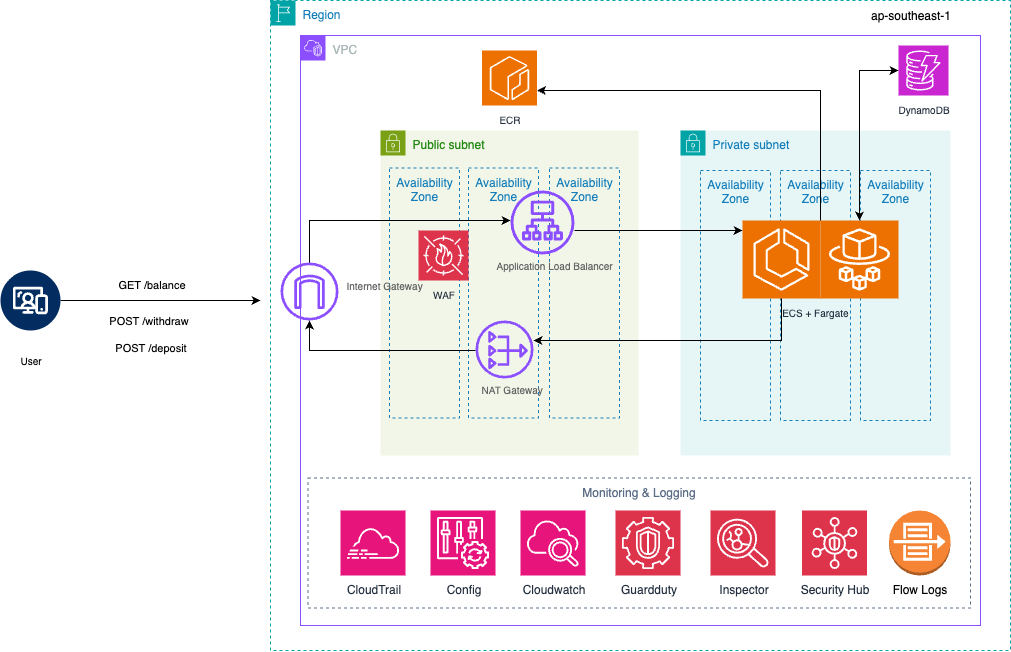
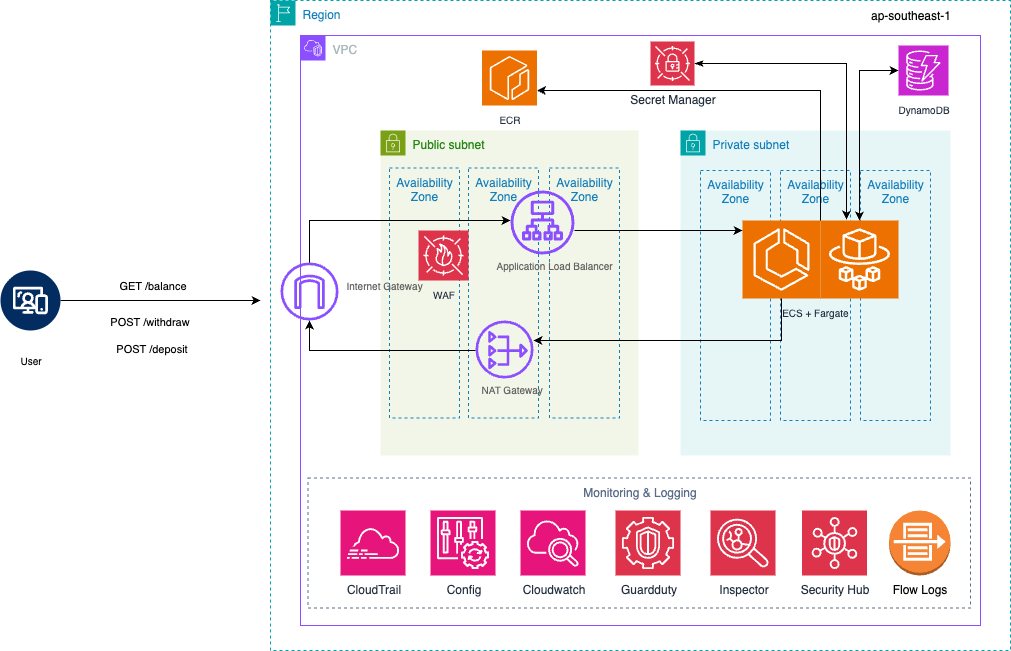
Update documentation

diff --git a/README.md b/README.md
@@ -8,12 +8,12 @@
 - [Future Enhancements](#enhancements)
 
 ## Background
-This assignment focuses on designing and implementing a cloud infrastructure for a banking application. The application support secure and efficient CRUD operations on a banking account.
+This assignment focuses on designing and implementing a cloud infrastructure for a banking application. The application provides support and efficient CRUD operations on a banking account.
 
 The customer must be able to access the bank account operations via three endpoints,
 
 * GET endpoint to get the current balance of an account.
-* POST endpoint to deposit money from an account.
+* POST endpoint to deposit money to an account.
 * POST endpoint to withdraw money from an account.
 
 ## Implementation Overview
@@ -27,7 +27,7 @@ There are two Github workflows,
 
 The setup was separated into two Github workflows to improve manageability and maintenance.
 
-Next section high level architecture will be discussed.
+The next section will discuss the high-level architecture.
 
 ## High-level architecture
 ![Architecture Diagram](resources/architecture-diagram.png)
@@ -38,11 +38,11 @@ Next section high level architecture will be discussed.
 
 This application is deployed in ap-southeast-1 region.
 
-According to the above ***Figure 1*** the User will be accessing the endpoints to access banking application from public internet. The request will flow to the VPC via Internet Gateway. Inside the VPC, two subnets exists,
+According to the above ***Figure 1***, the User will be accessing the endpoints to access banking application from public internet. User is authenticated before sending the request. Authentication will be handled by Secrets Manager.  Afterwards, the request will traverse to the VPC via Internet Gateway. There are two subnets inside the VPC,
 * Public Subnet
 * Private Subnet
 
-Only the public subnet have the access to the public internet. For high availability we have set up 3 Availability Zones(AZs) by adhering to the design best practices mentioned in AWS Well Architected Framework. 
+Only the public subnet have the access to the public internet. Three availability zones have been setup to improve high availability by adhering to the design best practices mentioned in AWS Well Architected Framework. 
 
 Inside the public subnet we have created Application Load Balancer(ALB) to route the traffic to the private subnet which the web application is deployed. Without the Load Balancer the user request would not traverse to the application.
 
@@ -64,14 +64,13 @@ All the information will be monitored and logged across the below services,
 * VPC Flow logs – Captures IP traffic data from/to network interfaces
 
 ## Limitations
-1.	The web application currently does not have authentication and authorization enabled. This feature will be enabled in the next phase once we purchase the custom domain. 
-2.	This web application is only deployed to Development environment only.
-3.  Currently, application does not support HTTPS workloads.
-4.  Managed Github runners have been used. Therefore, cannot force to install specific packages which will fix the security scan vulnerabilities in trivy. 
+1.	This web application is only deployed to Development environment only.
+2.  Currently, application does not support HTTPS workloads.
+3.  Managed Github runners have been used. Therefore, cannot force to install specific packages which will fix the security scan vulnerabilities in trivy. 
     Due to this reason we have ignored the trivy scan violations in the web-app pipeline.
 
 ## Future Improvements
-1.	Add authentication and authorization for the web application using Cognito or OIDC
+1.	Upgrade authentication and authorization for the web application using Cognito or OIDC
 2.	Add HTTPS for the ALB for secure traffic
 3.	Analyse the possibility of moving the endpoints to API Gateway
 4.	Multi-environment deployment
